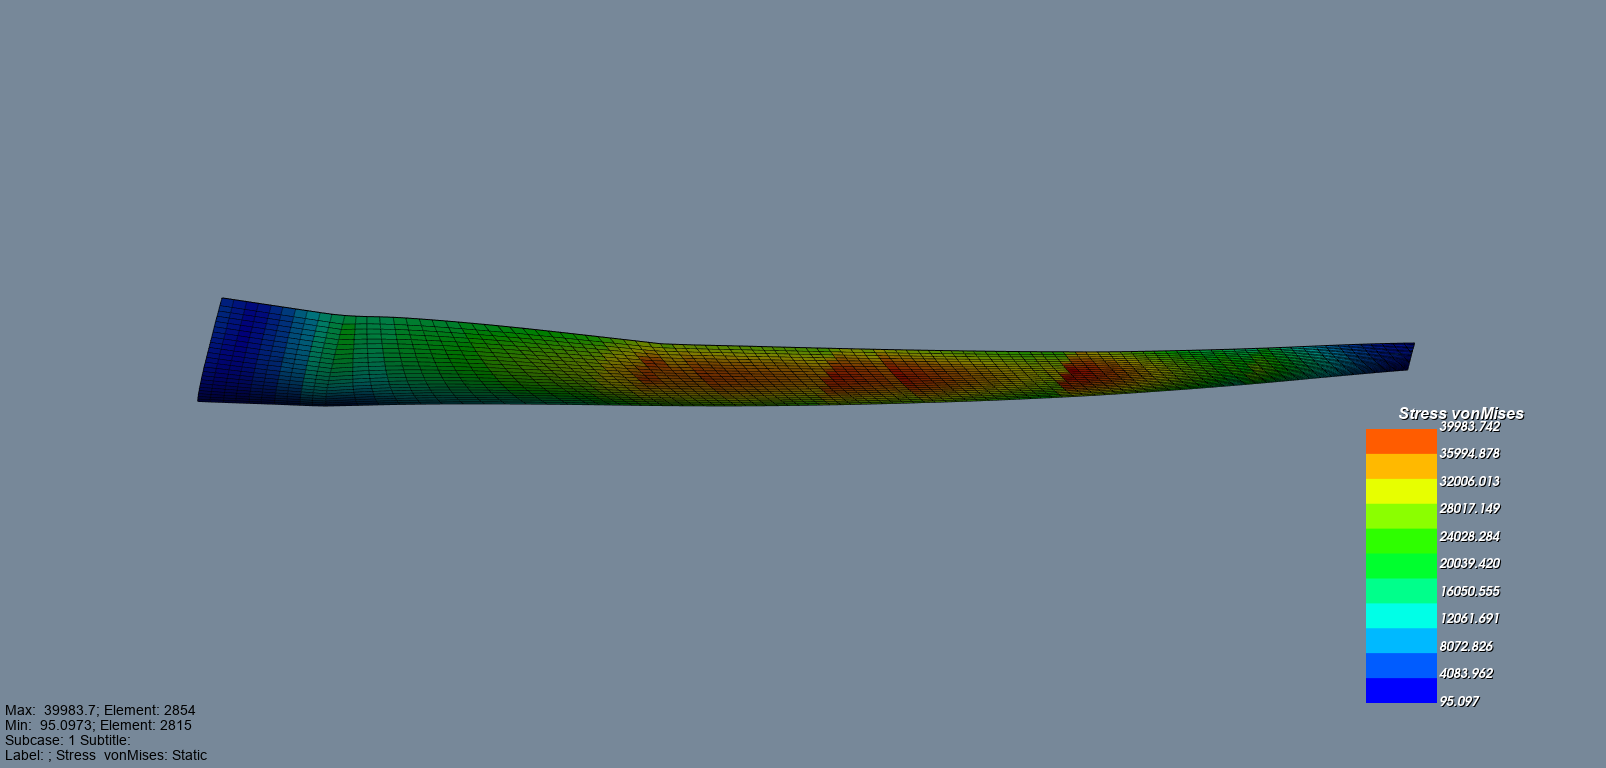
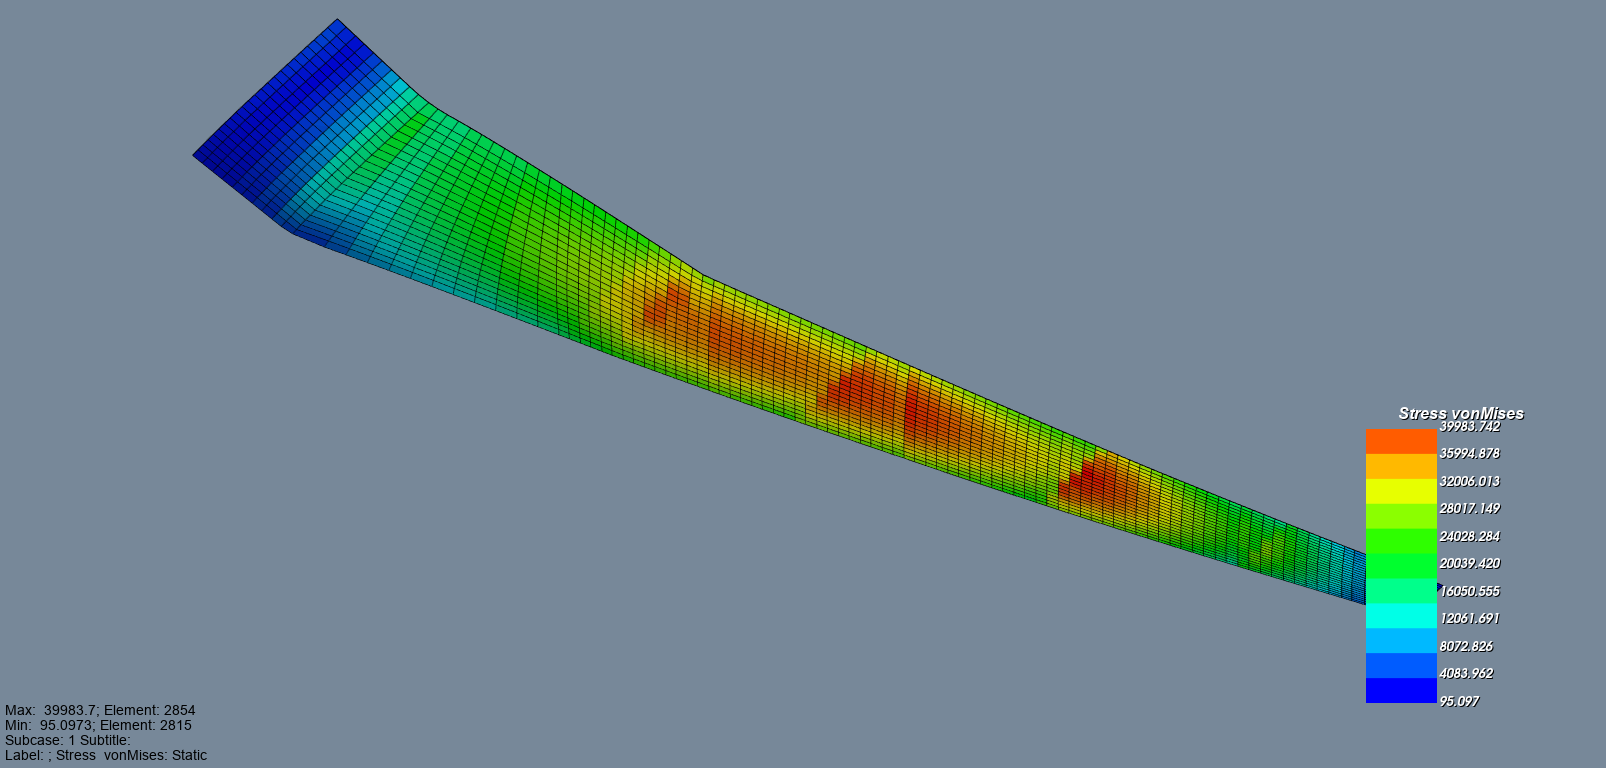
Fix isolated-group camera framing: aspect-matched up-vector, gentler tilt
The PCA-based up-vector picked whichever roll made a group's own bounding
box tightest, which is a different objective than filling the render's
fixed-aspect frame -- confirmed against the isolated-ribs render, where a
fan of ~50 near-parallel rib planes has a naturally tall/narrow silhouette
(~4.3:1) against this setup's ~2.1:1 output, leaving large empty margins
top and bottom no matter how tight the box itself was.

Replaced it with a direct search for the camera roll that matches the
render's own aspect ratio, shared by both the governing-element and
isolated-group cameras. With framing no longer the bottleneck, also
lowered the isolated-group fan tilt from 65 to 40 degrees -- re-rendering
the real ribs and shear-web groups at both angles showed 65 degrees was
still leaving each plate too edge-on to read its own stress gradient, once
the frame-fill problem stopped masking it.

All 8 blog images (full wing, isolated ribs geometry, and all 6 group
stress contours) regenerated with the fix and visually verified.

Changed region(s): [[0.1245, 0.0312, 0.9029, 0.7812]]

diff --git a/scripts/mcp_server.py b/scripts/mcp_server.py
@@ -411,6 +411,13 @@ _CAMERA_PRESETS = {
 
 _DEFAULT_RENDER_TIMEOUT_S = 300
 
+# pyNastranGUI's default main-window render size on this setup, confirmed
+# from actual screenshot dimensions (1606x768) -- used to pick a camera
+# roll (view_up) that matches the OUTPUT frame's aspect ratio rather than
+# whatever aspect the model's own silhouette happens to have. See
+# _up_vector_for_best_frame_fit.
+_RENDER_ASPECT_RATIO = 1606.0 / 768.0
+
 
 def _eids_for_groups(names: list[str], ses_path: str | None) -> set[int]:
     if not ses_path:
@@ -608,18 +615,34 @@ def _write_filtered_op2(op2_path: Path, kept_eids: set[int], output_path: Path) 
     op2.write_op2(str(output_path))
 
 
-def _up_vector_for_horizontal_long_axis(view_direction, points) -> "np.ndarray":
+def _up_vector_for_best_frame_fit(
+    view_direction, points, target_aspect: float = _RENDER_ASPECT_RATIO, n_steps: int = 360
+) -> "np.ndarray":
     """Given a view direction and a (n, 3) array of world-space points,
-    return a view_up vector such that the points' long axis (found via PCA,
-    projected into the plane perpendicular to view_direction) lands
-    horizontal in the rendered frame rather than at some arbitrary angle.
+    return a view_up vector that rolls the camera so the points' bounding
+    box, projected into the plane perpendicular to view_direction, matches
+    the render's own aspect ratio as closely as possible.
 
-    A landscape screenshot fills far more of the frame this way (confirmed
-    during development: an arbitrary fixed up-vector left a tapered,
-    diagonally-oriented wing using ~30% of frame width despite using ~80% of
-    frame height, since ResetCamera fits the axis-aligned bounding box, not
-    the actual silhouette) -- shared by both the governing-stress-element
-    camera and the isolated-group camera below.
+    ResetCamera fits whichever dimension (screen width or height) is more
+    constraining and leaves margin on the other -- it can't change the
+    frame's shape. So the fraction of the frame actually filled is governed
+    entirely by how close the projected bounding box's aspect ratio is to
+    the frame's, not by how tightly the box wraps the model. A previous
+    PCA-based approach (align the point cloud's long axis horizontal)
+    picked whichever roll made the cloud's own natural bounding box
+    tightest, which is a different objective and can pick a badly-mismatched
+    aspect ratio -- confirmed against the isolated-ribs case, where a fan of
+    ~50 near-parallel rib planes has a naturally tall, narrow silhouette:
+    PCA picked a bounding-box aspect of ~4.3:1 against this setup's ~2.1:1
+    frame, filling the width but leaving large empty margins top and bottom.
+    Directly searching for the roll that matches the frame's aspect ratio
+    instead brings that to ~1:1 (no systematic margin on either axis) for
+    every case tried (ribs, shear webs, spars, skin panels).
+
+    Shared by both the governing-stress-element camera and the
+    isolated-group camera below. n_steps=360 (half-degree resolution over
+    the 0-180 degree period a roll axis repeats in) is cheap even for
+    thousands of points since it's fully vectorized.
     """
     import numpy as np
 
@@ -633,10 +656,22 @@ def _up_vector_for_horizontal_long_axis(view_direction, points) -> "np.ndarray":
     centered = points - points.mean(axis=0)
     u = centered @ e1
     v = centered @ e2
-    cov = np.cov(np.stack([u, v]))
-    eigvals, eigvecs = np.linalg.eigh(cov)
-    short_axis_2d = eigvecs[:, np.argsort(eigvals)[0]]
-    return short_axis_2d[0] * e1 + short_axis_2d[1] * e2
+
+    thetas = np.linspace(0.0, np.pi, n_steps, endpoint=False)
+    cos_t = np.cos(thetas)[:, None]
+    sin_t = np.sin(thetas)[:, None]
+    # Rotating (u, v) by theta is equivalent to rolling the camera so that
+    # up = sin(theta)*e1 + cos(theta)*e2 maps to screen-vertical.
+    rotated_u = u[None, :] * cos_t - v[None, :] * sin_t
+    rotated_v = u[None, :] * sin_t + v[None, :] * cos_t
+    width = rotated_u.max(axis=1) - rotated_u.min(axis=1)
+    height = rotated_v.max(axis=1) - rotated_v.min(axis=1)
+    aspect = width / height
+    mismatch = np.abs(np.log(aspect / target_aspect))
+    theta = thetas[np.argmin(mismatch)]
+
+    up = np.sin(theta) * e1 + np.cos(theta) * e2
+    return up
 
 
 def _camera_look_direction_for_governing_element(
@@ -700,7 +735,7 @@ def _camera_look_direction_for_governing_element(
 
     diag = float(np.linalg.norm(bbox_max - bbox_min))
     camera_position = bbox_center + normal * diag * 2.0
-    up = _up_vector_for_horizontal_long_axis(normal, all_coords)
+    up = _up_vector_for_best_frame_fit(normal, all_coords)
 
     return (
         (float(bbox_center[0]), float(bbox_center[1]), float(bbox_center[2])),
@@ -710,7 +745,7 @@ def _camera_look_direction_for_governing_element(
 
 
 def _camera_look_direction_for_isolated_group(
-    bdf_path: Path, eids: set[int], tilt_deg: float = 65.0
+    bdf_path: Path, eids: set[int], tilt_deg: float = 40.0
 ) -> tuple[
     tuple[float, float, float], tuple[float, float, float], tuple[float, float, float]
 ] | None:
@@ -728,6 +763,16 @@ def _camera_look_direction_for_isolated_group(
     normal, mostly looking along it but angled enough to see each element's
     extent -- is the standard oblique "stacked bulkheads" engineering view:
     the parallel elements fan out and are individually distinguishable.
+
+    tilt_deg=40 (previously 65, before _up_vector_for_best_frame_fit
+    existed) trades a little separation for a lot more per-element face
+    area: at 65 degrees each rib/web is viewed close to edge-on, so once
+    framing stopped being the bottleneck (see
+    _up_vector_for_best_frame_fit), the plates themselves were still too
+    foreshortened to show their own internal stress gradient -- confirmed
+    by re-rendering the real ribs and shear-web groups at both angles: 40
+    degrees keeps every element distinguishable while making each one wide
+    enough to actually read.
 
     The shared normal is the average of each element's own local outward
     normal (hemisphere-aligned first, since node winding can flip sign
@@ -784,7 +829,7 @@ def _camera_look_direction_for_isolated_group(
     view_from_direction /= np.linalg.norm(view_from_direction)
 
     camera_position = bbox_center + view_from_direction * diag * 2.0
-    up = _up_vector_for_horizontal_long_axis(view_from_direction, group_points)
+    up = _up_vector_for_best_frame_fit(view_from_direction, group_points)
 
     return (
         (float(bbox_center[0]), float(bbox_center[1]), float(bbox_center[2])),
@@ -1187,7 +1232,7 @@ def render_model_view(
     mostly-planar groups like ribs can render them near edge-on, collapsed
     into an unreadable sliver (confirmed against a real render). Pass
     camera="auto" together with isolate_groups/isolate_property_ids instead
-    to aim for the isolated elements' shared face normal, tilted ~65 degrees
+    to aim for the isolated elements' shared face normal, tilted ~40 degrees
     off it, fanning out parallel elements so each is distinguishable rather
     than overlapping (see _camera_look_direction_for_isolated_group).
     "auto" isn't the default here because it has nothing to aim at without
